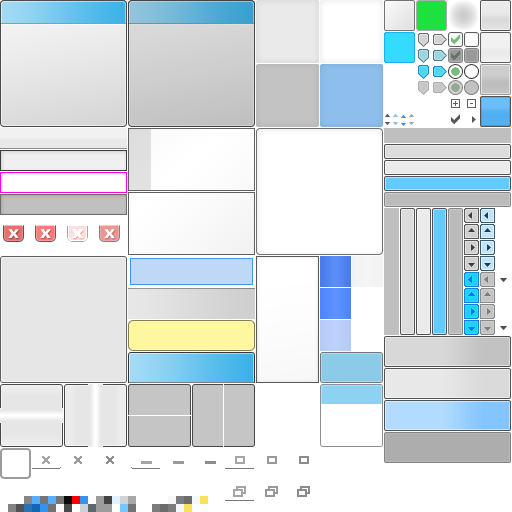
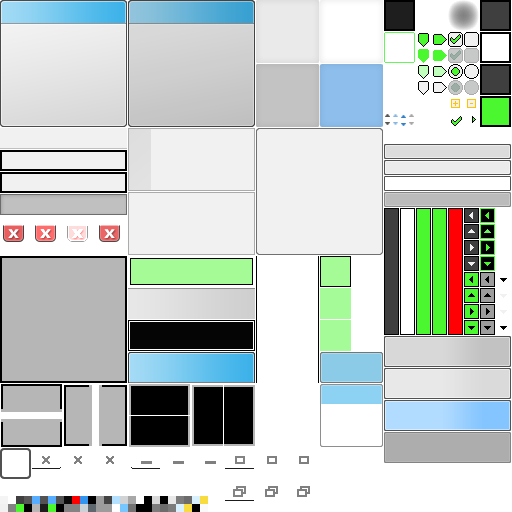
Updating the list and chat boxes.

diff --git a/source/Controls/ScrollControl.cpp b/source/Controls/ScrollControl.cpp
@@ -43,11 +43,10 @@ GWEN_CONTROL_CONSTRUCTOR(ScrollControl, Base)
     _scroll_bar = new VerticalScrollBar(this);
     _scroll_bar->SetDock(Position::RIGHT);
     _scroll_bar->_on_bar_moved.Add(this, &ScrollControl::_OnScrollBarMoved);
-    _scroll_bar->SetNudgeAmount(30);
+    _scroll_bar->SetNudgeAmount(21);
 
     _inner_panel = new Base(this);
     _inner_panel->SetPosition(0, 0);
-    _inner_panel->SetMargin(Margin(5, 5, 5, 5));
     _inner_panel->SendToBack();
     _inner_panel->SetMouseInputEnabled(true);
 
@@ -163,7 +162,9 @@ void ScrollControl::_UpdateScrollBar()
 
     // Update the scroll bar's content and viewable size.
     _scroll_bar->SetContentSize(children_height);
-    _scroll_bar->SetViewableContentSize(height);
+
+    const Gwen::Padding& inner_padding = _inner_panel->GetPadding();
+    _scroll_bar->SetViewableContentSize(height - inner_padding._top - inner_padding._bottom);
 
     // Set the position of the inner panel.
     int position_y = 0;

diff --git a/source/Controls/ListBox.cpp b/source/Controls/ListBox.cpp
@@ -47,13 +47,12 @@ GWEN_CONTROL_CONSTRUCTOR(ListBox, ScrollControl)
 {
     _multi_select = false;
 
-    _inner_panel->SetPadding(Padding(2, 2, 2, 2));
+    _inner_panel->SetPadding(Padding(2, 0, 2, 0));
 
     _table = new Controls::Layout::Table(this);
     _table->SetColumnCount(1);
 
     SetHidden(false);
-    SetMargin(Margin(1, 1, 1, 1));
     SetMouseInputEnabled(true);
 }
 
@@ -275,7 +274,9 @@ void ListBox::_UpdateScrollBar()
 
     // Update the scroll bar's content and viewable size.
     _scroll_bar->SetContentSize(children_height);
-    _scroll_bar->SetViewableContentSize(height);
+
+    const Gwen::Padding& inner_padding = _inner_panel->GetPadding();
+    _scroll_bar->SetViewableContentSize(height - inner_padding._top - inner_padding._bottom);
 
     // Set the position of the inner panel.
     int position_y = 0;

diff --git a/source/Controls/Layout/Table.cpp b/source/Controls/Layout/Table.cpp
@@ -42,7 +42,7 @@ namespace Layout
 
 GWEN_CONTROL_CONSTRUCTOR(Table, Base)
 {
-    _default_row_height = 22;
+    _default_row_height = 21;
     _size_to_contents = false;
     _column_count = 1;
 
@@ -89,7 +89,7 @@ void Table::SetColumnWidth(int column, int width)
 TableRow* Table::AddRow(int dock, bool to_back)
 {
     TableRow* row = new TableRow(this);
-    AddRow(row, to_back);
+    AddRow(row, dock, to_back);
     return row;
 }
 

diff --git a/include/Gwen/Controls.h b/include/Gwen/Controls.h
@@ -29,7 +29,6 @@
 #pragma once
 
 #include "Gwen/Controls/Button.h"
-#include "Gwen/Controls/ChatBox.h"
 #include "Gwen/Controls/CheckBox.h"
 #include "Gwen/Controls/CheckBoxWithLabel.h"
 #include "Gwen/Controls/ComboBox.h"
